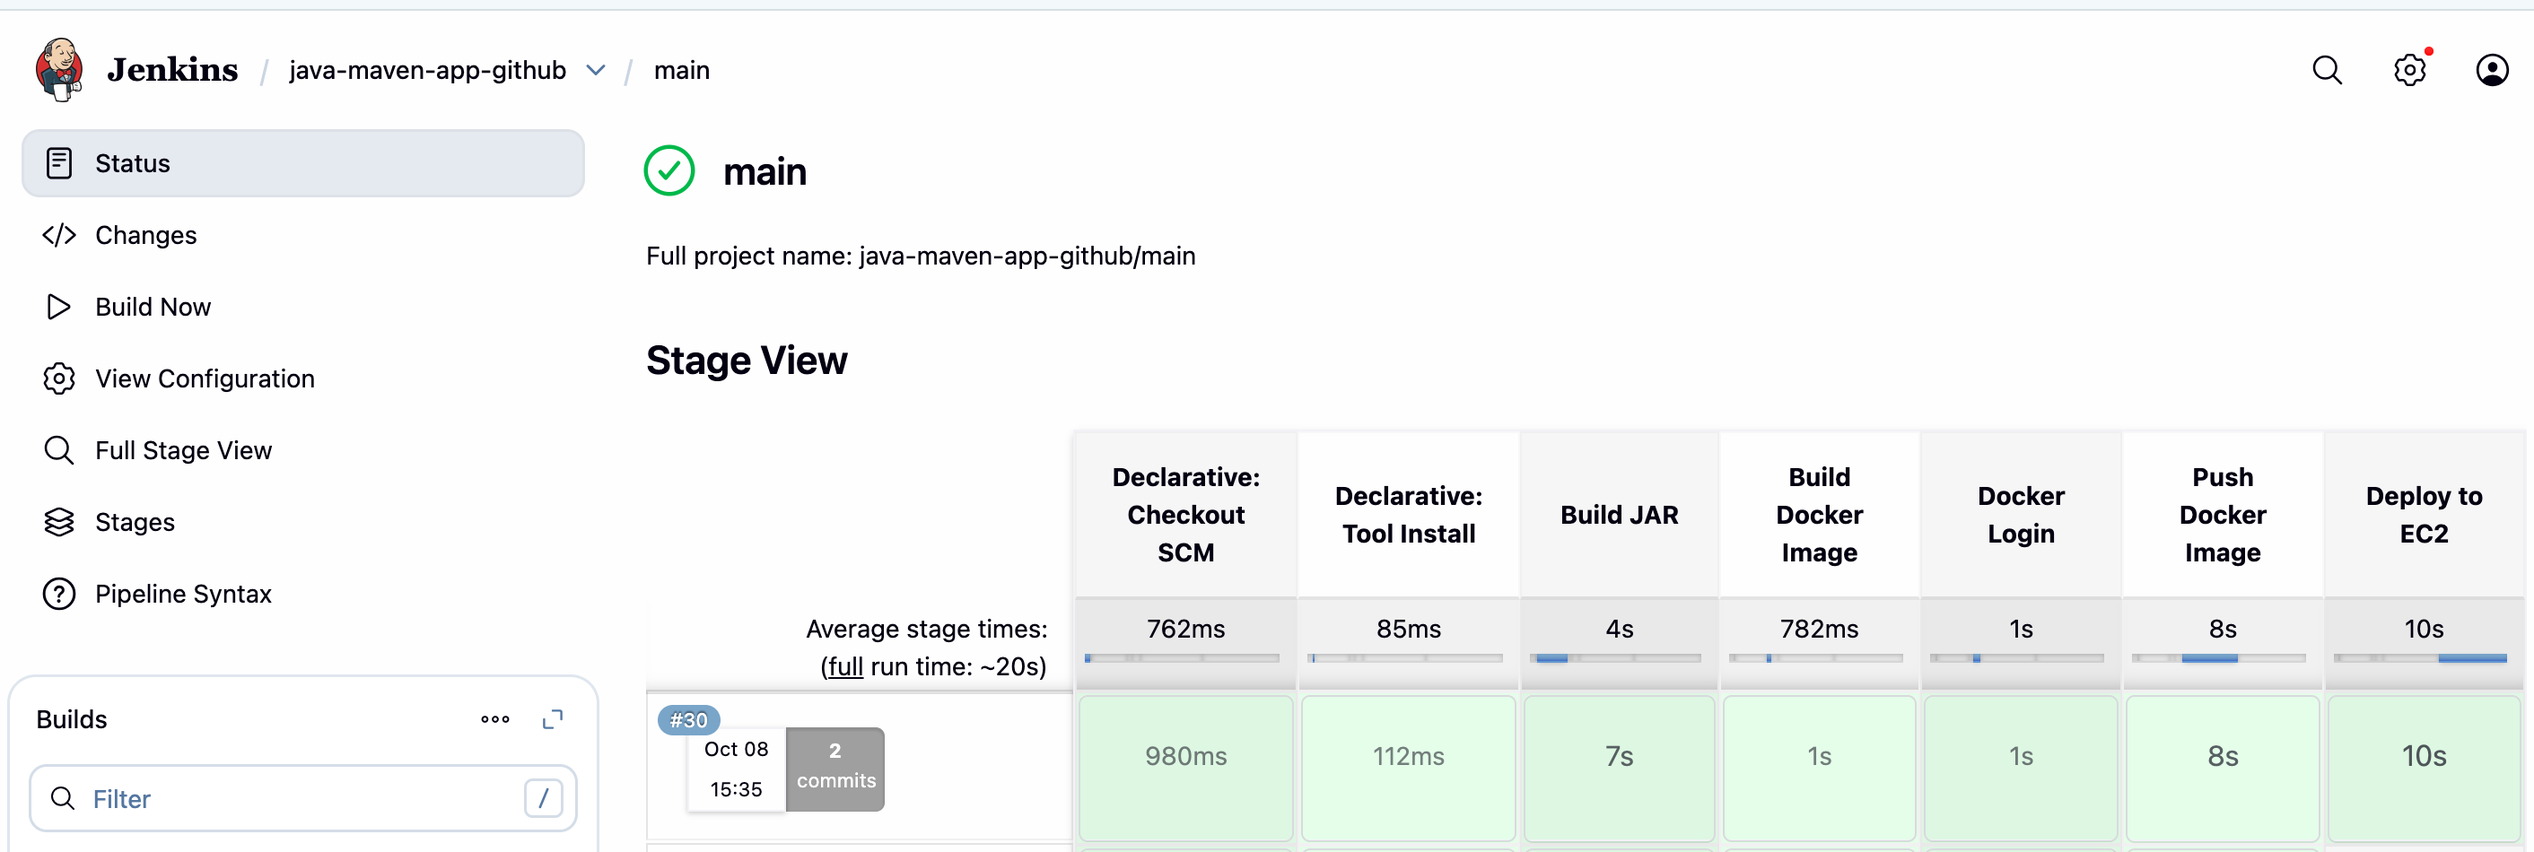
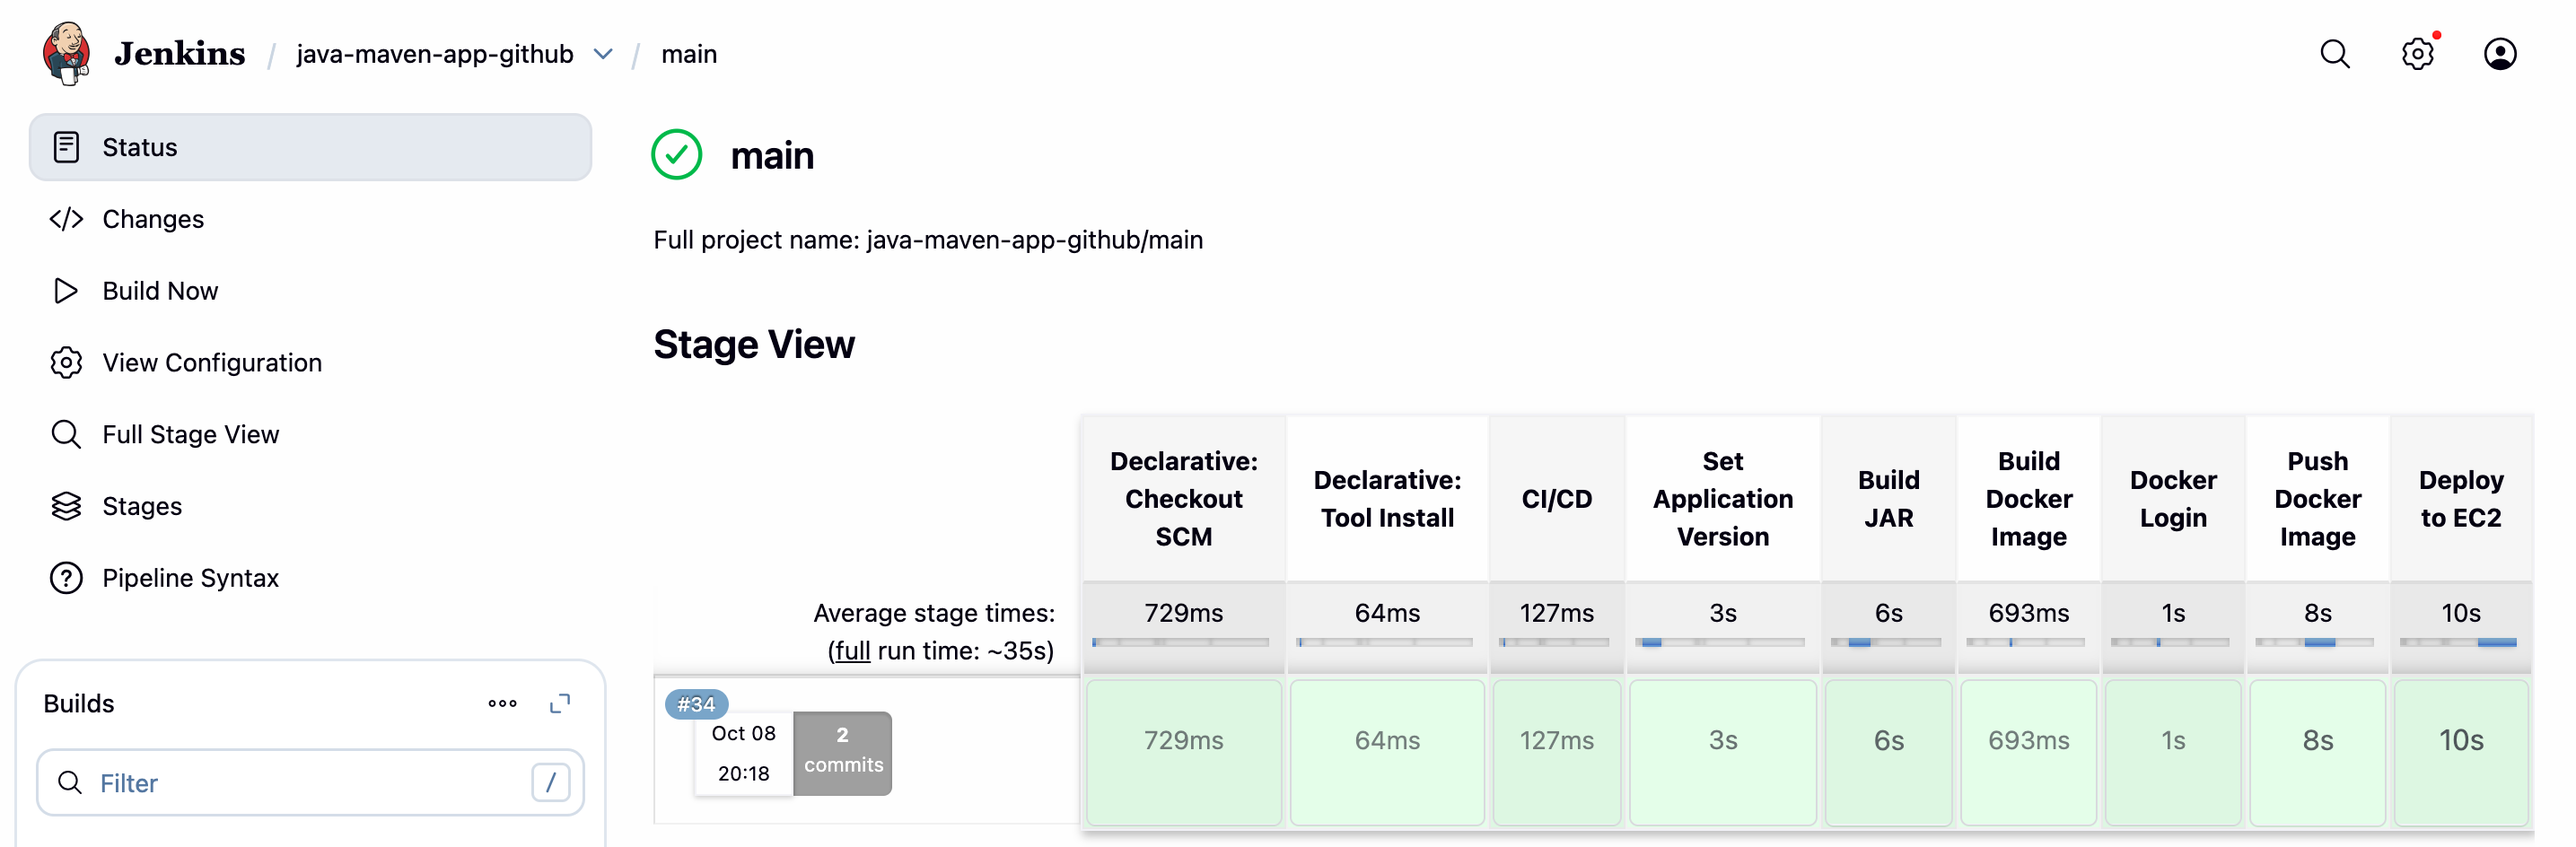
docs: document traceable Docker image versioning

diff --git a/README.md b/README.md
@@ -32,7 +32,7 @@ Docker Hub push
         ↓
 SSH deployment to Amazon EC2
         ↓
-Pull latest Docker image
+Pull exact versioned Docker image
         ↓
 Stop and remove previous container
         ↓
@@ -52,11 +52,12 @@ The declarative pipeline runs on `agent any` and uses the Jenkins Maven installa
 
 | Stage | Description |
 | --- | --- |
+| Set Application Version | Reads the application version from `pom.xml` and combines it with the Jenkins build number and short Git commit SHA to create a traceable Docker image tag. |
 | Build JAR | Runs `mvn clean package`, including the automated integration test, and packages the executable JAR. |
-| Build Docker Image | Builds the Docker image from the packaged Spring Boot application. |
+| Build Docker Image | Builds the Docker image using the generated versioned image name. |
 | Docker Login | Authenticates to Docker Hub using credentials stored in Jenkins. |
-| Push Docker Image | Pushes the newly built image to Docker Hub. |
-| Deploy to EC2 | Uses SSH credentials from Jenkins to connect to the EC2 instance, pull the latest image, replace the existing container, and verify the application over HTTP. |
+| Push Docker Image | Pushes the versioned Docker image to Docker Hub. |
+| Deploy to EC2 | Uses SSH credentials from Jenkins to connect to the EC2 instance, pull the exact versioned image, replace the existing container, and verify the application over HTTP. |
 
 ## Pipeline Execution
 
@@ -108,7 +109,7 @@ The pipeline uses the following Shared Library steps:
 - `buildImage(env.IMAGE_NAME)` — builds the Docker image.
 - `dockerLogin()` — authenticates to Docker Hub using Jenkins Credentials.
 - `dockerPush(env.IMAGE_NAME)` — publishes the Docker image.
-- `deployToEC2(env.IMAGE_NAME)` — connects to the EC2 deployment target over SSH, pulls the latest image, replaces the application container, and verifies the deployment.
+- `deployToEC2(env.IMAGE_NAME)` — connects to the EC2 deployment target over SSH, pulls the exact versioned image, replaces the application container, and verifies the deployment.
 
 The Shared Library separates pipeline-facing functions from their implementation:
 
@@ -166,13 +167,25 @@ Pipeline orchestration is defined in the Jenkinsfile, while reusable implementat
 
 ## Docker Image
 
-The Jenkins pipeline builds and publishes the Docker image as:
+The Jenkins pipeline builds and publishes versioned Docker images using the following format:
 
 ```text
-johnpaula/demo-app-2.2:latest
+johnpaula/java-maven-app:<application-version>-<jenkins-build-number>-<git-commit>
 ```
 
-In the current setup, `demo-app-2.2` is the Docker Hub repository name and `latest` is the image tag.
+For example:
+
+```text
+johnpaula/java-maven-app:1.1.1-34-4d6ce3b
+```
+
+The image tag is generated from three values:
+
+- `1.1.1` — the application version read from `pom.xml`
+- `34` — the Jenkins build number
+- `4d6ce3b` — the shortened Git commit SHA
+
+This makes each published image traceable to both the application version and the exact Jenkins build and Git revision that produced it.
 
 Maven packages the application as:
 
@@ -223,7 +236,7 @@ The deployment stage retries the request while the Spring Boot application is st
 - Automated Docker image publication to Docker Hub.
 - Automated deployment to an Amazon EC2 instance over SSH.
 - EC2 deployment authentication using an SSH private key stored in Jenkins Credentials.
-- Automatic replacement of the existing application container with the latest image.
+- Automatic replacement of the existing application container with the exact versioned image.
 - Container restart policy using `--restart unless-stopped`.
 - Automated post-deployment HTTP verification with retries.
 
